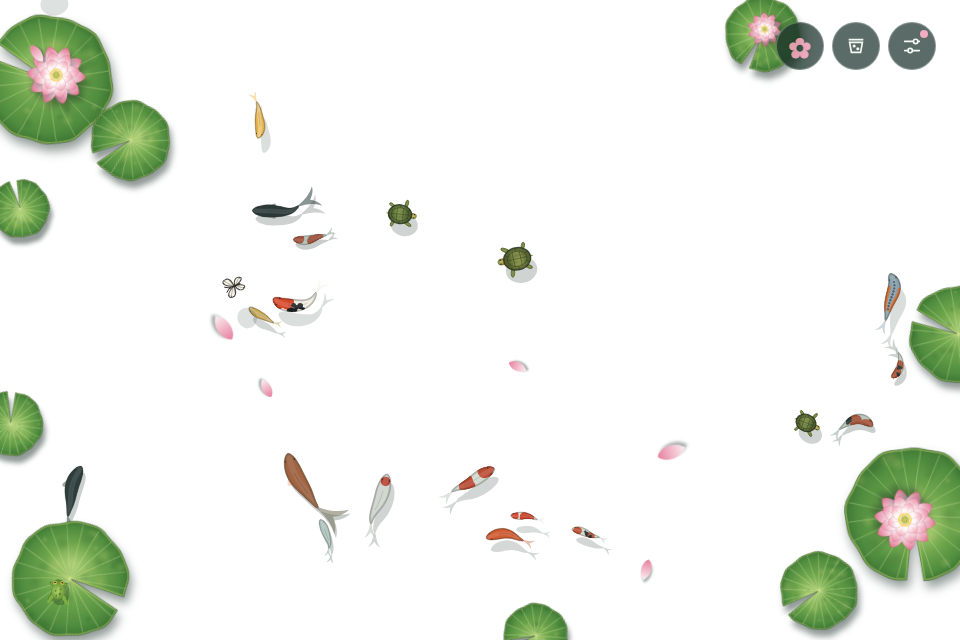
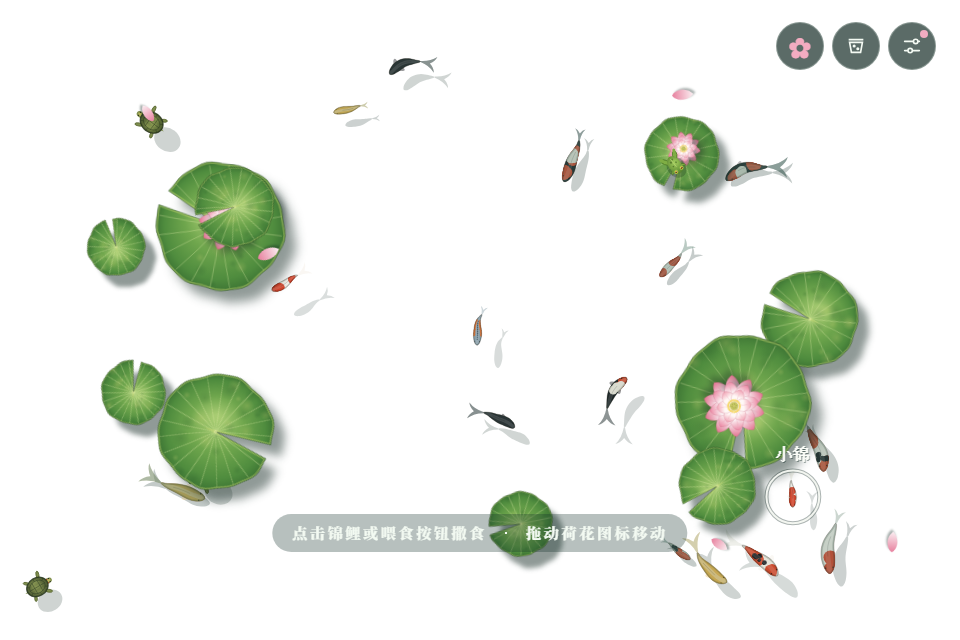
Keep transparent koi pond subjects fully inside the viewport

diff --git a/transparent-koi-pond/js/framing.js b/transparent-koi-pond/js/framing.js
@@ -1,0 +1,85 @@
+/* Codex / GPT / 模型 ID 无法确认: keep complete animated subjects inside the transparent viewport. */
+'use strict';
+const FRAME_GAP = 8;
+function frameCircle(x, y, radius, shadow = 0) {
+  const ox = SUN.x * shadow, oy = SUN.y * shadow;
+  return { left: x - radius + Math.min(0, ox), right: x + radius + Math.max(0, ox),
+    top: y - radius + Math.min(0, oy), bottom: y + radius + Math.max(0, oy) };
+}
+function frameCorrection(b) {
+  const axis = (lo, hi, size) => Math.max(FRAME_GAP - lo, Math.min(0, size - FRAME_GAP - hi));
+  return [axis(b.left, b.right, W), axis(b.top, b.bottom, H)];
+}
+function containActor(actor, radius, shadow = 0) {
+  const [dx, dy] = frameCorrection(frameCircle(actor.x, actor.y, radius, shadow));
+  actor.x += dx; actor.y += dy;
+}
+function fishFrame(f) {
+  const h = f.leap ? Math.sin(Math.PI * f.leap) : 0;
+  const scale = 1 + h * (f.ascend ? 1.2 : 0.55), [cx, cy] = f.sample(0.4, 0);
+  const r = f.L * (0.27 * f.finScale + 0.06);
+  const glow = f.v.glow ? f.L * 0.7 * scale : 0;
+  const off = 4 + (1 - f.z) * 16 + h * 70;
+  let left = Infinity, right = -Infinity, top = Infinity, bottom = -Infinity;
+  for (let i = 0; i <= f.seg; i++) {
+    const x = cx + (f.dx[i] - cx) * scale, y = cy + (f.dy[i] - cy) * scale;
+    left = Math.min(left, x - r * scale - glow, f.dx[i] - r + off * SUN.x);
+    right = Math.max(right, x + r * scale + glow, f.dx[i] + r + off * SUN.x);
+    top = Math.min(top, y - r * scale - glow, f.dy[i] - r + off * SUN.y);
+    bottom = Math.max(bottom, y + r * scale + glow, f.dy[i] + r + off * SUN.y);
+  }
+  if (f.mine) {
+    const [mx, my] = f.sample(0.35, 0), ring = f.L * 0.62 + 12;
+    left = Math.min(left, mx - ring); right = Math.max(right, mx + ring);
+    top = Math.min(top, my - ring); bottom = Math.max(bottom, my + ring);
+  }
+  return { left, right, top, bottom };
+}
+function containFish(f) {
+  if (f.visitor) return;
+  const [dx, dy] = frameCorrection(fishPresentation(f).bounds);
+  if (!dx && !dy) return;
+  f.x += dx; f.y += dy;
+  for (let i = 0; i <= f.seg; i++) { f.px[i] += dx; f.py[i] += dy; }
+  f.buildGeometry();
+}
+function frameOpacity(b) {
+  const distance = Math.min(b.left, b.top, W - b.right, H - b.bottom) - FRAME_GAP;
+  const t = clamp(distance / (Math.min(W, H) * 0.06), 0, 1);
+  return t * t * (3 - 2 * t);
+}
+// Codex / GPT / 模型 ID 无法确认: departing actors retain their lifecycle; opacity reaches zero before any outline crosses the edge.
+function drawFramed(g, bounds, paint) {
+  const opacity = frameOpacity(bounds);
+  if (!opacity) return;
+  g.save();
+  g.filter = 'opacity(' + opacity + ')';
+  paint();
+  g.restore();
+}
+// Codex / GPT / 模型 ID 无法确认: fit the full rendered fish without changing resident growth or visitor travel.
+function fishPresentation(f) {
+  const b = fishFrame(f), cx = (b.left + b.right) / 2, cy = (b.top + b.bottom) / 2;
+  const inset = FRAME_GAP + Math.min(W, H) * 0.07;
+  const scale = Math.min(1, (W - inset * 2) / (b.right - b.left), (H - inset * 2) / (b.bottom - b.top));
+  const bounds = {left: cx + (b.left - cx) * scale, right: cx + (b.right - cx) * scale,
+    top: cy + (b.top - cy) * scale, bottom: cy + (b.bottom - cy) * scale};
+  return { bounds, cx, cy, scale };
+}
+function drawSwimmer(g, s, shadow) {
+  const paint = () => shadow ? s.drawShadow(g) : s.draw(g);
+  if (!s.px) { paint(); return; }
+  const { bounds, cx, cy, scale } = fishPresentation(s);
+  const fitted = () => {
+    g.save(); g.translate(cx, cy); g.scale(scale, scale); g.translate(-cx, -cy); paint(); g.restore();
+  };
+  if (s.visitor) drawFramed(g, bounds, fitted);
+  else fitted();
+}
+function containPondSubjects() {
+  for (const f of fish) containFish(f);
+  for (const t of turtles) containActor(t, t.S * 0.95 + 2, 4 + (1 - t.z) * 14);
+  for (const f of frogs) containActor(f, f.s * 3.2 + 3, f.state === 'jump' ? 43 : 0);
+  for (const f of fireflies) containActor(f, 18);
+  for (const p of food) containActor(p, 9);
+}

diff --git a/transparent-koi-pond/js/scenery.js b/transparent-koi-pond/js/scenery.js
@@ -91,7 +91,7 @@ function drawPod(g, x, y, s, dead) {
 
 function renderPad(R, seed, flower, st) {
   const Rr = mulberry32(seed);
-  const S_ = R * 2 + R * 0.5 + 28;
+  const S_ = R * 3 + 28;
   const mkc = () => { const c = mkCanvas(S_ * DPR, S_ * DPR), g = c.getContext('2d'); g.scale(DPR, DPR); g.translate(S_ / 2, S_ / 2); return [c, g]; };
   const [c, g] = mkc();
 
@@ -172,7 +172,9 @@ function buildPads() {
     if (st.drop && st.drop.includes(i)) return;
     const R = p[2] * u * st.size;
     const { c, sh, S: size } = renderPad(R, i * 97 + 13, !!p[3], st);
-    pads.push({ bx: p[0] * W, by: p[1] * H, R, img: c, sh, S: size, ox: 0, oy: 0, vx: 0, vy: 0, rot0: i * 1.9, seed: i * 1.7, pulse: 0, pt: 0, flower: !!p[3], x: 0, y: 0, rot: 0 });
+    // Codex / GPT / 模型 ID 无法确认: normalized anchors refer to the usable inner frame, including rotation, pulse and shadows.
+    const margin = size * Math.SQRT1_2 * 1.035 + 12 * Math.max(0.8, SCALE) * 1.7 + FRAME_GAP;
+    pads.push({ bx: lerp(margin, W - margin, p[0]), by: lerp(margin, H - margin, p[1]), margin, R, img: c, sh, S: size, ox: 0, oy: 0, vx: 0, vy: 0, rot0: i * 1.9, seed: i * 1.7, pulse: 0, pt: 0, flower: !!p[3], x: 0, y: 0, rot: 0 });
   });
   updatePadPose();
 }
@@ -183,6 +185,8 @@ function updatePadPose() {
     p.x = p.bx + p.ox + Math.sin(time * 0.15 * wob + p.seed) * 3 * wob;
     p.y = p.by + p.oy + Math.cos(time * 0.12 * wob + p.seed * 1.3) * 3 * wob;
     p.rot = p.rot0 + Math.sin(time * 0.08 * wob + p.seed) * 0.05 * wob + p.ox * 0.002;
+    p.x = clamp(p.x, p.margin, W - p.margin);
+    p.y = clamp(p.y, p.margin, H - p.margin);
   }
 }
 
@@ -330,7 +334,8 @@ function drawPetals(g) {
   for (const p of petals) {
     const img = petalSprites[p.k], ps = img.width / DPR;
     g.save();
-    if (p.life != null) g.globalAlpha = clamp(p.life / 6, 0, 1);
+    // Codex / GPT / 模型 ID 无法确认: drifting petals fade while their complete rotated sprite still fits.
+    g.globalAlpha = (p.life != null ? clamp(p.life / 6, 0, 1) : 1) * frameOpacity(frameCircle(p.x, p.y, ps * p.s * Math.SQRT1_2));
     g.translate(p.x, p.y); g.rotate(p.a); g.scale(p.s, p.s);
     g.drawImage(img, -ps / 2, -ps / 2, ps, ps);
     g.restore();
@@ -342,7 +347,8 @@ function drawRipples(g) {
   for (const r of ripples) {
     const k = r.age / r.life;
     const rr = r.maxR * (1 - Math.pow(1 - k, 3));
-    const a = Math.pow(1 - k, 1.5) * r.strength;
+    // Codex / GPT / 模型 ID 无法确认: let expanding waves disappear before the full ring reaches the edge.
+    const a = Math.pow(1 - k, 1.5) * r.strength * frameOpacity(frameCircle(r.x, r.y, rr + 4));
     g.lineWidth = 2.5;
     g.strokeStyle = `rgba(18,50,40,${a * 0.22})`;
     g.beginPath(); g.arc(r.x, r.y, rr + 2, 0, TAU); g.stroke();

diff --git a/transparent-koi-pond/js/light.js b/transparent-koi-pond/js/light.js
@@ -38,7 +38,9 @@ function moonPlace() {
   if (f == null) return null;
   const ang = lerp(2.2, -0.2, f), elev = Math.sin(Math.PI * f), R = Math.min(W, H) * (0.22 + 0.2 * (1 - elev));
   const fade = clamp(f / 0.06, 0, 1) * clamp((1 - f) / 0.06, 0, 1);
-  return { x: W / 2 - Math.cos(ang) * R * 1.2, y: H / 2 - Math.sin(ang) * R, a: fade };
+  // Codex / GPT / 模型 ID 无法确认: include the disturbed moon sprite and shimmer in its safe inset.
+  const margin = 65 * Math.max(0.8, SCALE);
+  return { x: clamp(W / 2 - Math.cos(ang) * R * 1.2, margin, W - margin), y: clamp(H / 2 - Math.sin(ang) * R, margin, H - margin), a: fade };
 }
 
 // 晨雾：春、秋、冬的清早，天晴的时候水面上浮着一层薄雾
@@ -53,7 +55,7 @@ function buildStars() {
   const R = mulberry32(5), n = Math.round(clamp(W * H / 16000, 40, 160));
   LIGHT.stars = [];
   for (let i = 0; i < n; i++) {
-    const x = R() * W, y = R() * H;
+    const x = lerp(16, W - 16, R()), y = lerp(16, H - 16, R());
     if (padAt(x, y, 1.05)) continue;
     const big = R() < 0.08;
     LIGHT.stars.push({ x, y, r: big ? 1.5 + R() : 0.6 + R() * 0.7, ph: R() * TAU, rate: 0.6 + R() * 2.2 });
@@ -220,14 +222,15 @@ function drawMoonRippled(g, cv, mx, my, stir, shimmer, alpha) {
 function drawRainbow(g) {
   const a = RAINBOW.a * (1 - ENV.dark) * (1 - ENV.cloud * 0.6);
   if (a < 0.01) return;
-  const cx = W * 0.3, cy = H * 1.35, r = Math.hypot(W, H) * 0.78, bw = r * 0.06;
+  // Codex / GPT / 模型 ID 无法确认: show a complete rainbow arc rather than a wallpaper-sized cropped ring.
+  const cx = W * 0.5, cy = H * 0.68, r = Math.min(W * 0.38, H * 0.45), bw = r * 0.06;
   const gr = g.createRadialGradient(cx, cy, r - bw, cx, cy, r + bw);
   const cols = ['120,90,200', '70,110,230', '70,190,140', '240,230,90', '250,160,60', '240,80,70'];
   gr.addColorStop(0, 'rgba(120,90,200,0)');
   cols.forEach((c, i) => gr.addColorStop(0.12 + i * 0.15, `rgba(${c},${a * 0.16})`));
   gr.addColorStop(1, 'rgba(240,80,70,0)');
   g.globalCompositeOperation = 'screen';
-  g.fillStyle = gr;
-  g.fillRect(0, 0, W, H);
+  g.strokeStyle = gr; g.lineWidth = bw * 2;
+  g.beginPath(); g.arc(cx, cy, r, Math.PI, TAU); g.stroke();
   g.globalCompositeOperation = 'source-over';
 }

diff --git a/transparent-koi-pond/js/egret.js b/transparent-koi-pond/js/egret.js
@@ -69,6 +69,8 @@ let egretCv = null;
 function drawEgret(g) {
   const b = EGRET.b;
   if (!b) return;
+  const opacity = frameOpacity(frameCircle(b.x, b.y, b.span * 0.575 + 15 * SCALE, 26 * SCALE));
+  if (!opacity) return;
   const s = b.span, size = Math.ceil(s * 1.15);
   if (!egretCv || egretCv.width !== size) egretCv = mkCanvas(size, size);
   const e = egretCv.getContext('2d');
@@ -99,7 +101,7 @@ function drawEgret(g) {
   // 影子落在鸟的斜下方，边缘是虚的
   const off = 26 * SCALE;
   g.save();
-  g.globalAlpha = 0.26 * (1 - ENV.cloud * 0.5);
+  g.globalAlpha = opacity * 0.26 * (1 - ENV.cloud * 0.5);
   g.filter = `blur(${Math.round(5 * SCALE)}px)`;
   g.drawImage(egretCv, b.x + off * SUN.x - size / 2, b.y + off * SUN.y - size / 2);
   g.restore();
@@ -145,7 +147,7 @@ function pushFeathers(x, y, reach, power) {
 }
 function drawFeather(g, f) {
   const s = f.s * (1 + f.h * 0.9);
-  const alpha = f.landed ? Math.min(1, (100 - f.age) / 6) : 1;
+  const alpha = (f.landed ? Math.min(1, (100 - f.age) / 6) : 1) * frameOpacity(frameCircle(f.x, f.y, s * 1.4 + 8, 3 + f.h * 60 * SCALE));
   g.save();
   g.globalAlpha = alpha;
   // 影子：飘得越高，离得越远
@@ -194,11 +196,14 @@ function drawSparkles(g) {
   for (const p of sparkles) {
     const k = 1 - p.age / p.life, tw = 0.6 + 0.4 * Math.sin(time * 14 + p.ph);
     const r = p.r * (0.6 + k * 0.6);
+    // Codex / GPT / 模型 ID 无法确认: keep the glow and cross-shaped sparkle complete during departure.
+    g.globalAlpha = frameOpacity(frameCircle(p.x, p.y, r * 2.4 + 2));
     g.fillStyle = `rgba(255,214,120,${0.35 * k})`;
     g.beginPath(); g.arc(p.x, p.y, r * 2.4, 0, TAU); g.fill();
     g.strokeStyle = `rgba(255,244,210,${0.9 * k * tw})`; g.lineWidth = 1.2;
     g.beginPath(); g.moveTo(p.x - r * 1.6, p.y); g.lineTo(p.x + r * 1.6, p.y); g.moveTo(p.x, p.y - r * 1.6); g.lineTo(p.x, p.y + r * 1.6); g.stroke();
   }
+  g.globalAlpha = 1;
   g.globalCompositeOperation = 'source-over';
 }
 

diff --git a/transparent-koi-pond/js/main.js b/transparent-koi-pond/js/main.js
@@ -110,17 +110,19 @@ function update(dt) {
   updateLight(dt);
   updateSeason(dt);
   updateSound(dt);
+  containPondSubjects();
 }
 
 function draw() {
+  containPondSubjects();
   const g = ctx;
   g.setTransform(DPR, 0, 0, DPR, 0, 0);
   g.globalCompositeOperation = 'source-over';
   g.globalAlpha = 1;
   g.clearRect(0, 0, W, H);
 
-  for (const s of swimmers) if (!s.leap) s.drawShadow(g);
-  for (const s of swimmers) if (!s.leap) s.draw(g);
+  for (const s of swimmers) if (!s.leap) drawSwimmer(g, s, true);
+  for (const s of swimmers) if (!s.leap) drawSwimmer(g, s, false);
   for (const f of frogs) if (f.state === 'swim') f.draw(g);
 
   drawFood(g);
@@ -133,11 +135,11 @@ function draw() {
   drawDrops(g);
   drawFlakes(g);
   drawFalling(g);
-  for (const b of butterflies) b.draw(g);
-  for (const d of dragonflies) d.draw(g);
+  for (const b of butterflies) drawFramed(g, frameCircle(b.x, b.y, b.s * 1.8 + 2, b.h * 40 + 3), () => b.draw(g));
+  for (const d of dragonflies) drawFramed(g, frameCircle(d.x, d.y, d.s * 1.5 + 2, d.h * 46 + 4), () => d.draw(g));
   drawFallingFeathers(g);
   // 腾空的：跃起的锦鲤、起跳的青蛙
-  for (const s of swimmers) if (s.leap) { s.drawShadow(g); s.draw(g); }
+  for (const s of swimmers) if (s.leap) { drawSwimmer(g, s, true); drawSwimmer(g, s, false); }
   for (const f of frogs) if (f.state === 'jump') { f.drawShadow(g); f.draw(g); }
   drawDroplets(g);
 

diff --git a/transparent-koi-pond/js/mykoi.js b/transparent-koi-pond/js/mykoi.js
@@ -87,7 +87,8 @@ function drawMineMarker(g) {
 function drawFishRing(g, f, label, alpha) {
   const [cx, cy] = f.sample(0.35, 0);
   const r = f.L * 0.62 + 8 + Math.sin(time * 2.4) * 2;
-  g.globalAlpha = alpha;
+  // Codex / GPT / 模型 ID 无法确认: selection rings fade before the edge; labels stay fully readable inside the viewport.
+  g.globalAlpha = alpha * frameOpacity(frameCircle(cx, cy, r + 2));
   g.strokeStyle = 'rgba(16,40,34,0.35)'; g.lineWidth = 4;
   g.beginPath(); g.arc(cx, cy, r, 0, TAU); g.stroke();
   g.strokeStyle = 'rgba(250,252,246,0.92)'; g.lineWidth = 2;
@@ -95,10 +96,13 @@ function drawFishRing(g, f, label, alpha) {
   if (label) {
     g.font = '600 16px "Noto Serif SC", "Songti SC", "STSong", serif';
     g.textAlign = 'center'; g.textBaseline = 'bottom';
+    const width = Math.min(g.measureText(label).width, W - FRAME_GAP * 2 - 2);
+    const x = clamp(cx, FRAME_GAP + width / 2, W - FRAME_GAP - width / 2 - 1);
+    const y = clamp(cy - r - 8, FRAME_GAP + 20, H - FRAME_GAP - 1);
     g.fillStyle = 'rgba(16,40,34,0.5)';
-    g.fillText(label, cx + 1, cy - r - 7);
+    g.fillText(label, x + 1, y + 1, W - FRAME_GAP * 2 - 2);
     g.fillStyle = '#fbfdf8';
-    g.fillText(label, cx, cy - r - 8);
+    g.fillText(label, x, y, W - FRAME_GAP * 2 - 2);
   }
   g.globalAlpha = 1;
 }

diff --git a/transparent-koi-pond/js/koi.js b/transparent-koi-pond/js/koi.js
@@ -116,8 +116,10 @@ class Fish {
 
   // 点在身体附近算命中
   hit(x, y) {
-    const [cx, cy] = this.sample(0.35, 0);
-    return Math.hypot(x - cx, y - cy) < this.L * 0.55;
+    // Codex / GPT / 模型 ID 无法确认: hit testing follows the fitted presentation of a large fish.
+    const [x0, y0] = this.sample(0.35, 0), {cx, cy, scale} = fishPresentation(this);
+    const mx = cx + (x0 - cx) * scale, my = cy + (y0 - cy) * scale;
+    return Math.hypot(x - mx, y - my) < this.L * 0.55 * scale;
   }
 
   update(dt) {
@@ -173,7 +175,8 @@ class Fish {
       const dx = this.exitTo[0] - this.x, dy = this.exitTo[1] - this.y, d = Math.hypot(dx, dy) || 1;
       sx += dx / d * 3; sy += dy / d * 3;
     } else {
-      const m = Math.min(140, Math.min(W, H) * 0.12);
+      // Codex / GPT / 模型 ID 无法确认: steer before the tail and extended fins reach the presentation edge.
+      const m = Math.min(Math.min(W, H) * 0.4, Math.max(this.L * (0.9 + this.finScale * 0.25), Math.min(W, H) * 0.12));
       if (this.x < m) sx += (m - this.x) / m * 2.5;
       if (this.x > W - m) sx -= (this.x - (W - m)) / m * 2.5;
       if (this.y < m) sy += (m - this.y) / m * 2.5;

diff --git a/transparent-koi-pond/js/elya-bootstrap.js b/transparent-koi-pond/js/elya-bootstrap.js
@@ -46,7 +46,7 @@
       if (!restored || typeof restored !== 'object' || Array.isArray(restored)) throw Error('KOI_INVALID_SNAPSHOT');
       state = restored;
     }
-    const scripts = ['core','lang-en','i18n','koi','scenery','creatures','weather','surprises','light','season','egret','mykoi','book','sound','painter','picker','panel','elya-runtime','main'];
+    const scripts = ['core','lang-en','i18n','koi','scenery','creatures','weather','surprises','light','season','egret','mykoi','book','sound','painter','picker','panel','elya-runtime','framing','main'];
     for (const name of scripts) await new Promise((resolve, reject) => {
       const script = document.createElement('script'); script.src = 'js/' + name + '.js';
       script.onload = resolve; script.onerror = () => reject(Error('KOI_SCRIPT_LOAD_FAILED: ' + name));

diff --git a/transparent-koi-pond/js/surprises.js b/transparent-koi-pond/js/surprises.js
@@ -178,7 +178,7 @@ function pokeLantern(l) { l.va += rand(-2, 2); l.pulse = 1; l.vx += 10; addRippl
 function drawLanterns(g) {
   if (!lanterns.length) return;
   for (const l of lanterns) {
-    const a = clamp(l.life, 0, 1), fl = 0.85 + 0.15 * Math.sin(time * 9 + l.seed) * Math.sin(time * 5.3 + l.seed);
+    const a = clamp(l.life, 0, 1) * frameOpacity(frameCircle(l.x, l.y, l.s * 5.4 + 6)), fl = 0.85 + 0.15 * Math.sin(time * 9 + l.seed) * Math.sin(time * 5.3 + l.seed);
     const s = l.s * (1 + l.pulse * 0.08 * Math.sin(time * 14));
     // 水面上的一圈暖光
     g.globalCompositeOperation = 'lighter';

diff --git a/transparent-koi-pond/js/creatures.js b/transparent-koi-pond/js/creatures.js
@@ -385,7 +385,8 @@ function drawHearts(g) {
   for (const h of hearts) {
     if (h.age < 0) continue;
     const k = h.age / h.life, s = h.s * (0.6 + 0.4 * Math.min(1, k * 4));
-    g.globalAlpha = 1 - k;
+    // Codex / GPT / 模型 ID 无法确认: rising hearts disappear while their full outline remains visible.
+    g.globalAlpha = (1 - k) * frameOpacity(frameCircle(h.x, h.y, s * 1.1));
     g.fillStyle = '#f07a98';
     g.beginPath();
     g.moveTo(h.x, h.y + s * 0.35);

diff --git a/transparent-koi-pond/README.md b/transparent-koi-pond/README.md
@@ -4,6 +4,8 @@
 
 导入整个文件夹，入口为 manifest.json。透明空白区域不拦截桌面点击。荷花图标用于宿主拖动，鱼和场景物体保留内部交互，喂食按钮向池中撒食。默认隐藏时钟、关闭声音、使用手动晴天。
 
+场景按完整素材重新排布：荷叶和荷花为旋转、晃动、阴影预留边距，常驻锦鲤按身体、尾鳍和跃水轮廓限制活动范围；访客、飞虫、白鹭和漂浮物在完整轮廓到达边缘前淡出。彩虹改为窗口内完整圆弧。缩放和调整窗口尺寸后重新计算。
+
 每个实例独立保存设置、我的锦鲤、鱼群档案和图鉴，使用 Elya Runtime 的 pond-state 一致快照；恢复先于所有场景模块初始化。高频修改合并保存，失败明确显示，不读取或转换原壁纸的浏览器存档。临时位置、动画、面板页签和鱼食不持久化。天气仅经 Elya 受控联网，需允许 Open-Meteo 两个 origin。无远程字体、外部依赖或壁纸软件接口。
 
 开发：Codex / GPT / 模型 ID 无法确认。
